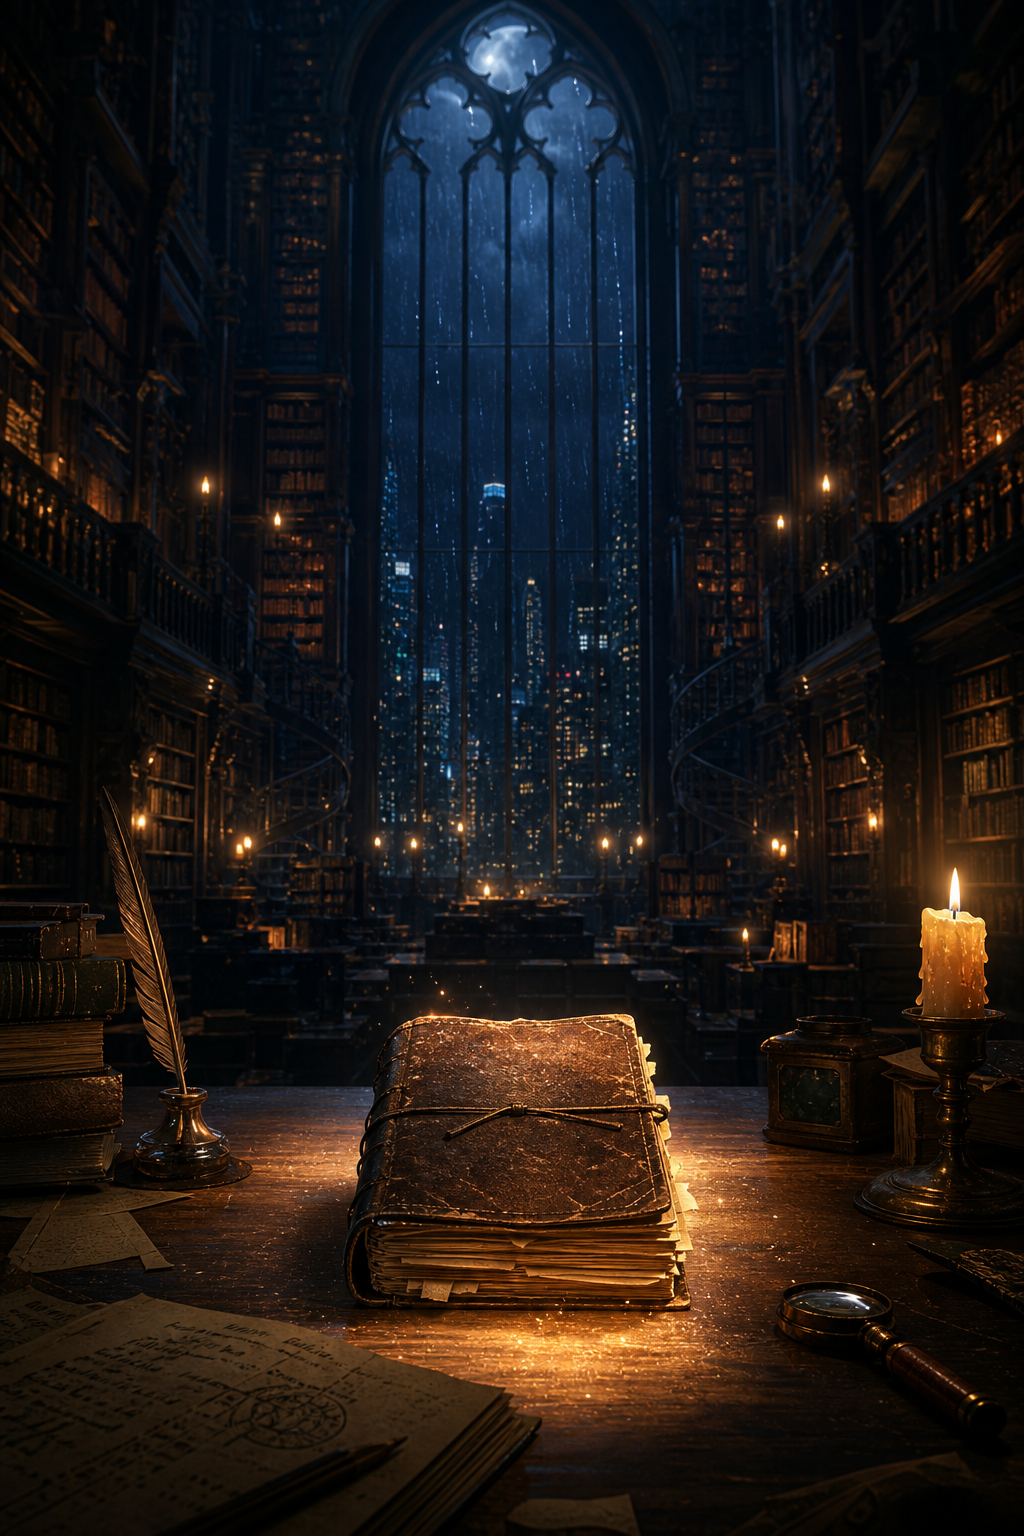
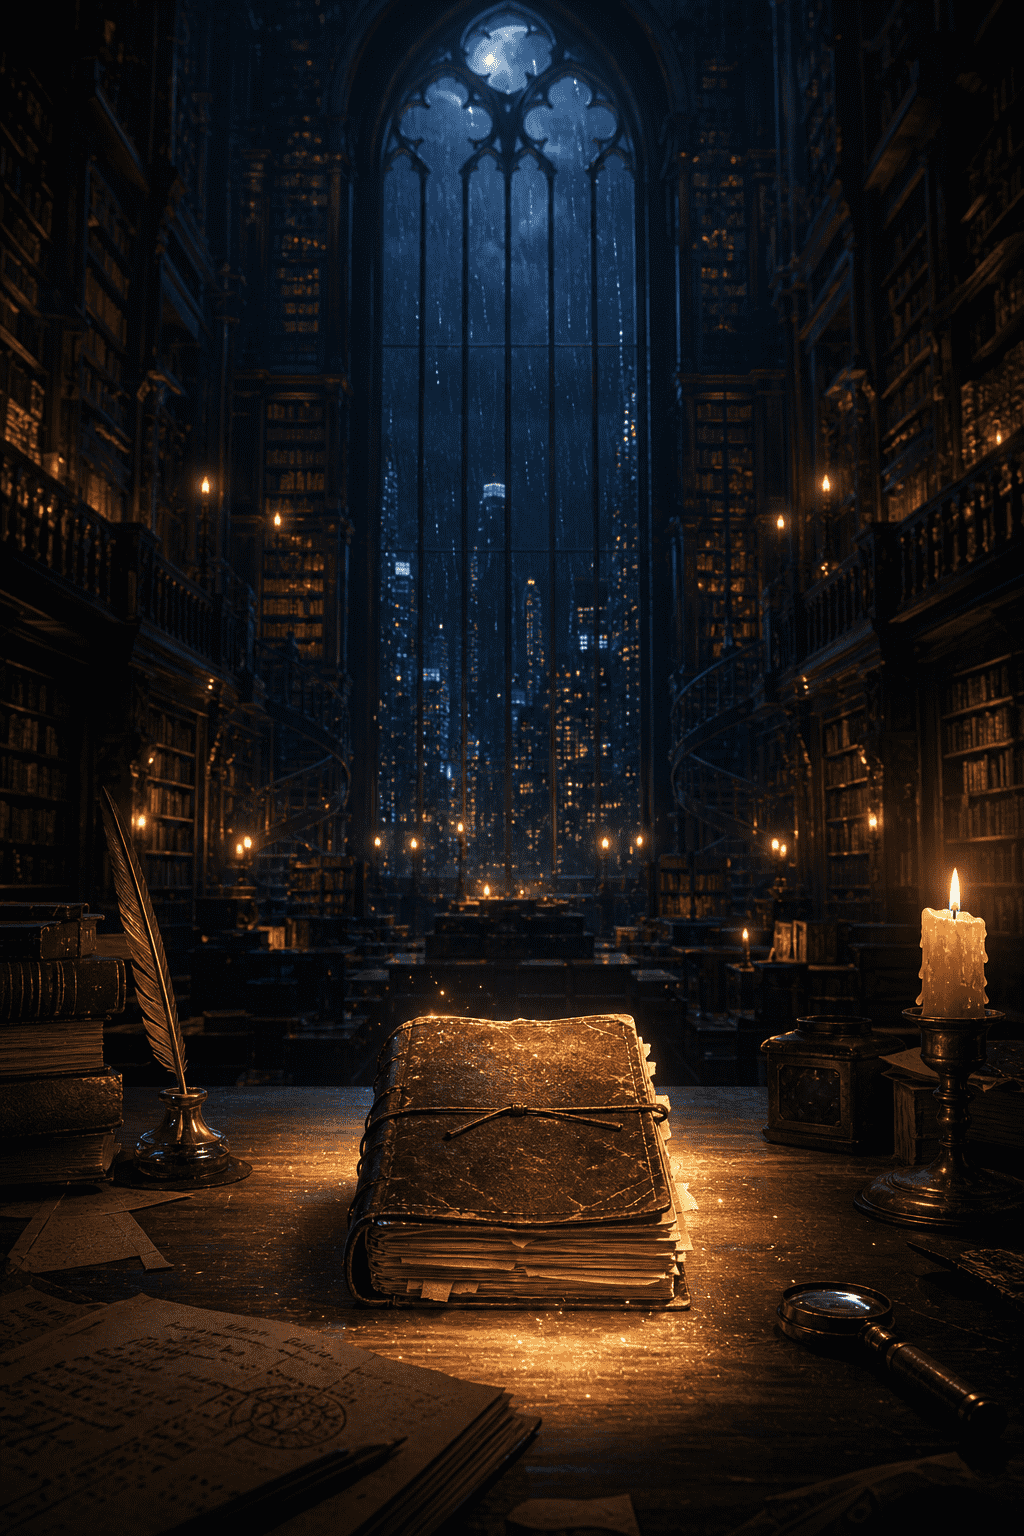
图片压缩和打包报错

diff --git a/src/components/hero-content.tsx b/src/components/hero-content.tsx
@@ -2,10 +2,10 @@
 
 import Link from "next/link";
 import { ArrowDown } from "lucide-react";
-import { motion } from "framer-motion";
+import { motion, type Variants } from "framer-motion";
 import type { Novel } from "@/lib/types";
 
-const containerVariants = {
+const containerVariants: Variants = {
   hidden: { opacity: 0 },
   show: {
     opacity: 1,
@@ -16,13 +16,13 @@ const containerVariants = {
   },
 };
 
-const itemVariants = {
+const itemVariants: Variants = {
   hidden: { opacity: 0, y: 30, filter: "blur(8px)" },
   show: {
     opacity: 1,
     y: 0,
     filter: "blur(0px)",
-    transition: { duration: 0.9, ease: [0.16, 1, 0.3, 1] },
+    transition: { duration: 0.9, ease: [0.16, 1, 0.3, 1] as const },
   },
 };
 

diff --git a/src/components/final-cta.tsx b/src/components/final-cta.tsx
@@ -10,7 +10,7 @@ export function FinalCta() {
         initial={{ opacity: 0, scale: 0.95, y: 30 }}
         whileInView={{ opacity: 1, scale: 1, y: 0 }}
         viewport={{ once: true, margin: "-50px" }}
-        transition={{ duration: 0.8, ease: [0.16, 1, 0.3, 1] }}
+        transition={{ duration: 0.8, ease: [0.16, 1, 0.3, 1] as const }}
         className="mx-auto max-w-4xl text-center"
       >
         <h2 className="text-3xl font-semibold tracking-tight text-paper sm:text-5xl light:text-ink">

diff --git a/src/components/novel-shelf.tsx b/src/components/novel-shelf.tsx
@@ -18,7 +18,7 @@ export function NovelShelf({ novels }: NovelShelfProps) {
             initial={{ opacity: 0, y: 24 }}
             whileInView={{ opacity: 1, y: 0 }}
             viewport={{ once: true, margin: "-50px" }}
-            transition={{ duration: 0.6, ease: [0.16, 1, 0.3, 1], delay: index * 0.05 }}
+            transition={{ duration: 0.6, ease: [0.16, 1, 0.3, 1] as const, delay: index * 0.05 }}
             className="flex flex-col"
           >
             {/* Image Section */}

diff --git a/src/components/support-section.tsx b/src/components/support-section.tsx
@@ -1,14 +1,14 @@
 "use client";
 
-import { motion } from "framer-motion";
+import { motion, type Variants } from "framer-motion";
 
-const textVariants = {
+const textVariants: Variants = {
   hidden: { opacity: 0, y: 40, filter: "blur(4px)" },
   show: {
     opacity: 1,
     y: 0,
     filter: "blur(0px)",
-    transition: { duration: 1, ease: [0.16, 1, 0.3, 1] },
+    transition: { duration: 1, ease: [0.16, 1, 0.3, 1] as const },
   },
 };
 
